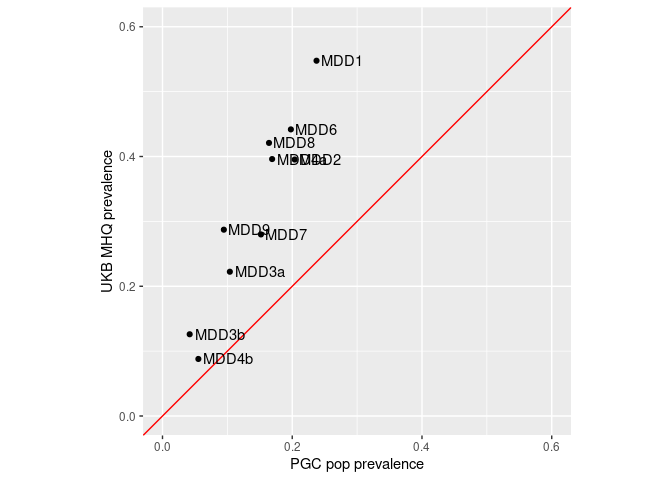
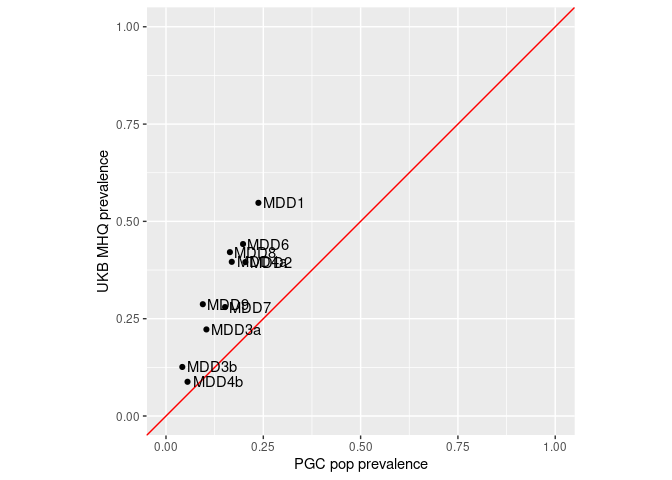
Print prevalences on 0-1 fixed scale

diff --git a/mdd-symptom-gsem.html b/mdd-symptom-gsem.html
@@ -824,10 +824,10 @@ coord_fixed() </code></pre>
 geom_abline(col='red') +
 geom_point() +
 geom_text(aes(label=Symptom), hjust=-0.1) +
-scale_x_continuous('PGC pop prevalence', limits=c(0, 0.6)) +
-scale_y_continuous('UKB MHQ prevalence', limits=c(0, 0.6)) +
+scale_x_continuous('PGC pop prevalence', limits=c(0, 1)) +
+scale_y_continuous('UKB MHQ prevalence', limits=c(0, 1)) +
 coord_fixed() </code></pre>
[2 lines of base64/hex data omitted]
 </div>
 </div>
 <div id="multivariable-ldsc-estimation" class="section level1">

diff --git a/mdd-symptom-gsem.md b/mdd-symptom-gsem.md
@@ -427,8 +427,8 @@ ggplot(pgc_ukb_symptoms_prev, aes(x=pop_prev, y=mhq_sample)) +
 geom_abline(col='red') +
 geom_point() +
 geom_text(aes(label=Symptom), hjust=-0.1) +
-scale_x_continuous('PGC pop prevalence', limits=c(0, 0.6)) +
-scale_y_continuous('UKB MHQ prevalence', limits=c(0, 0.6)) +
+scale_x_continuous('PGC pop prevalence', limits=c(0, 1)) +
+scale_y_continuous('UKB MHQ prevalence', limits=c(0, 1)) +
 coord_fixed() 
 ```
 
